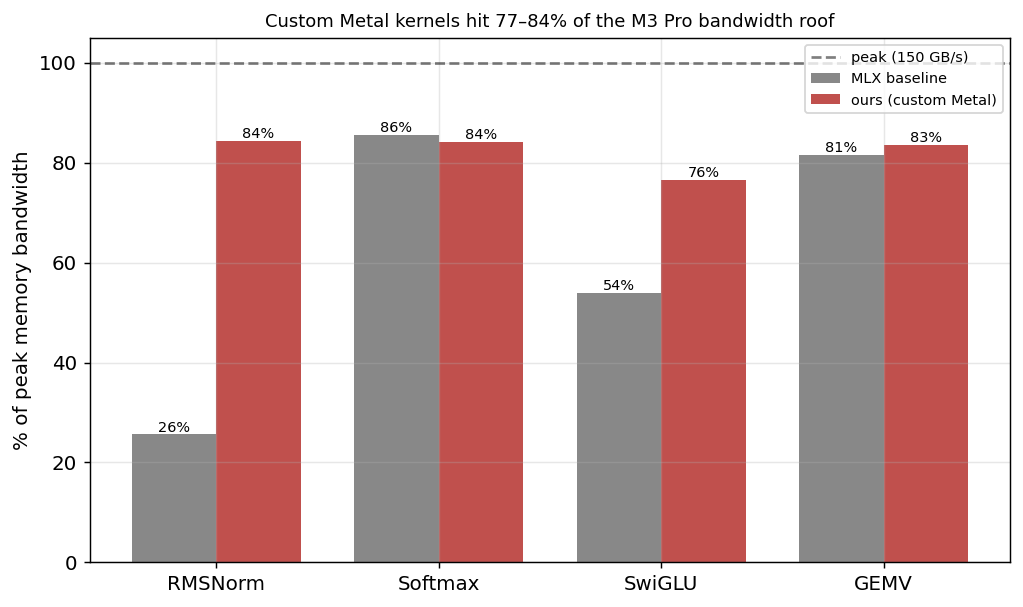
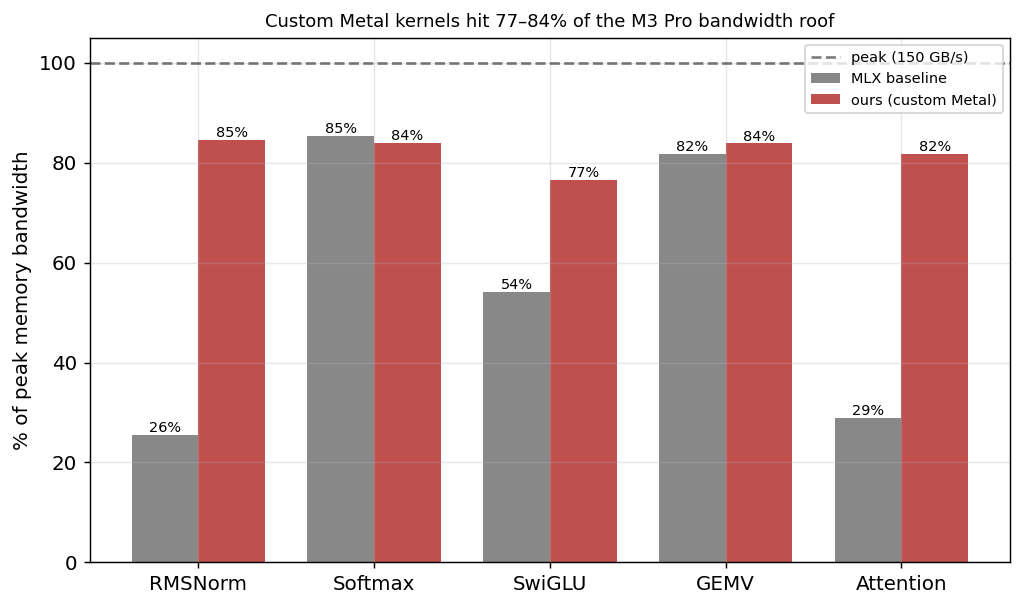
Add flash-style fused attention kernel (project #3 capstone)
kernels/attention.py: decode attention (1 query vs T keys) in one Metal kernel.
Scores are computed and softmaxed in threadgroup (on-chip) memory and never
written to global memory -- the Flash Attention insight, hand-written.
- 123 GB/s (82% of peak), 2.8x over the naive multi-op path
- beats mx.fast.scaled_dot_product_attention for the decode case (82% vs 79%)
- correct to 2.5e-07 vs reference
bench.py + report.py now cover all five kernels (RMSNorm, softmax, SwiGLU,
GEMV, attention); combined bandwidth figure updated.

diff --git a/kernels/attention.py b/kernels/attention.py
@@ -1,0 +1,117 @@
+"""Fused single-query attention as a custom Metal kernel (the Flash insight).
+
+For each (batch·head) row r:
+    scores[j] = (q · K[j]) * scale          # j = 0..T-1
+    p         = softmax(scores)
+    out       = Σ_j p[j] · V[j]
+
+The Flash Attention insight: never write the (T) score vector to global memory.
+This kernel keeps scores in **threadgroup (on-chip) memory**, does the softmax
+reduction there, and streams K and V once each. One threadgroup per row.
+
+This is the decode-time attention (one query vs T cached keys) — the
+memory-bound regime that dominates autoregressive generation. The naive path
+materializes the scores in global memory across several kernels (matmul,
+softmax, matmul); fusing avoids that traffic.
+"""
+
+from __future__ import annotations
+
+import math
+
+import mlx.core as mx
+
+_THREADS = 256
+
+
+def _kernel(T: int, D: int, scale: float):
+    src = f"""
+        uint r   = threadgroup_position_in_grid.x;
+        uint tid = thread_position_in_threadgroup.x;
+        const uint T = {T};
+        const uint D = {D};
+        const uint NT = {_THREADS};
+        const float scale = {scale}f;
+
+        threadgroup float scores[{T}];
+        threadgroup float red[{_THREADS}];
+
+        // scores[j] = (q . K[j]) * scale, track local max
+        float lmax = -INFINITY;
+        for (uint j = tid; j < T; j += NT) {{
+            float s = 0.0f;
+            for (uint e = 0; e < D; e++)
+                s += (float)q[r*D + e] * (float)K[(r*T + j)*D + e];
+            s *= scale;
+            scores[j] = s;
+            lmax = metal::max(lmax, s);
+        }}
+        red[tid] = lmax;
+        threadgroup_barrier(mem_flags::mem_threadgroup);
+        for (uint k = NT/2; k > 0; k >>= 1) {{
+            if (tid < k) red[tid] = metal::max(red[tid], red[tid+k]);
+            threadgroup_barrier(mem_flags::mem_threadgroup);
+        }}
+        float m = red[0];
+        threadgroup_barrier(mem_flags::mem_threadgroup);
+
+        // exp(scores - m) in place, track local sum
+        float lsum = 0.0f;
+        for (uint j = tid; j < T; j += NT) {{
+            float p = metal::exp(scores[j] - m);
+            scores[j] = p;
+            lsum += p;
+        }}
+        red[tid] = lsum;
+        threadgroup_barrier(mem_flags::mem_threadgroup);
+        for (uint k = NT/2; k > 0; k >>= 1) {{
+            if (tid < k) red[tid] += red[tid+k];
+            threadgroup_barrier(mem_flags::mem_threadgroup);
+        }}
+        float l = red[0];
+        threadgroup_barrier(mem_flags::mem_threadgroup);
+
+        // out[e] = (Σ_j p[j] * V[j,e]) / l   — each thread owns output dims e
+        for (uint e = tid; e < D; e += NT) {{
+            float acc = 0.0f;
+            for (uint j = 0; j < T; j++)
+                acc += scores[j] * (float)V[(r*T + j)*D + e];
+            out[r*D + e] = (DT)(acc / l);
+        }}
+    """
+    return mx.fast.metal_kernel(name=f"attn_{T}_{D}",
+                                input_names=["q", "K", "V"],
+                                output_names=["out"], source=src)
+
+
+def attention_metal(q: mx.array, K: mx.array, V: mx.array, scale=None) -> mx.array:
+    """q: (R, D), K/V: (R, T, D) -> out: (R, D)."""
+    R, D = q.shape
+    T = K.shape[1]
+    if scale is None:
+        scale = 1.0 / math.sqrt(D)
+    (out,) = _kernel(T, D, scale)(
+        inputs=[q, K, V], template=[("DT", q.dtype)],
+        grid=(R * _THREADS, 1, 1), threadgroup=(_THREADS, 1, 1),
+        output_shapes=[(R, D)], output_dtypes=[q.dtype],
+    )
+    return out
+
+
+def attention_ref(q, K, V, scale=None):
+    R, D = q.shape
+    if scale is None:
+        scale = 1.0 / math.sqrt(D)
+    scores = (q[:, None, :] * K).sum(-1) * scale       # (R, T)
+    p = mx.softmax(scores, axis=-1)
+    return (p[:, :, None] * V).sum(1)                  # (R, D)
+
+
+if __name__ == "__main__":
+    mx.random.seed(0)
+    R, T, D = 64, 1024, 64
+    q = mx.random.normal((R, D)); K = mx.random.normal((R, T, D)); V = mx.random.normal((R, T, D))
+    err = mx.max(mx.abs(attention_metal(q, K, V) - attention_ref(q, K, V)))
+    mx.eval(err)
+    print(f"attention max abs error: {err.item():.2e}",
+          "PASS" if err.item() < 1e-4 else "FAIL")

diff --git a/bench.py b/bench.py
@@ -17,7 +17,7 @@ import mlx.nn as nn
 
 from config import PEAK_BW_BYTES
 from kernels import (rmsnorm_metal, rmsnorm_ref, softmax_metal,
-                     swiglu_metal, gemv_metal)
+                     swiglu_metal, gemv_metal, attention_metal, attention_ref)
 
 
 def timeit(fn, iters=100, warmup=10):
@@ -84,6 +84,26 @@ def main():
     tm = timeit(lambda: W @ xv)
     row("gemv mx-matmul", tm, b, tm, 0.0)
     row("gemv ours", timeit(lambda: gemv_metal(W, xv)), b, tm, e)
+    print()
+
+    # ---- Fused attention (decode: 1 query vs T keys) ----
+    R, T, D = 256, 2048, 64
+    q = mx.random.normal((R, D)); K = mx.random.normal((R, T, D))
+    Vv = mx.random.normal((R, T, D)); mx.eval(q, K, Vv)
+    b = (2 * R * T * D + 2 * R * D) * 4  # read K + V dominate
+    ref = attention_ref(q, K, Vv); ours = attention_metal(q, K, Vv); mx.eval(ref, ours)
+    e = mx.max(mx.abs(ours - ref)).item()
+    tn = timeit(lambda: attention_ref(q, K, Vv))
+    row("attention naive", tn, b, tn, 0.0)
+    row("attention ours", timeit(lambda: attention_metal(q, K, Vv)), b, tn, e)
+    # MLX fused SDPA builtin as the gold-standard baseline
+    import math as _m
+    qb = q.reshape(R, 1, 1, D); Kb = K.reshape(R, 1, T, D); Vb = Vv.reshape(R, 1, T, D)
+    sc = 1.0 / _m.sqrt(D)
+    ts = timeit(lambda: mx.fast.scaled_dot_product_attention(qb, Kb, Vb, scale=sc))
+    es = mx.max(mx.abs(
+        mx.fast.scaled_dot_product_attention(qb, Kb, Vb, scale=sc).reshape(R, D) - ref)).item()
+    row("attention sdpa", ts, b, tn, es)
 
 
 if __name__ == "__main__":

diff --git a/report.py b/report.py
@@ -20,7 +20,9 @@ matplotlib.use("Agg")
 import matplotlib.pyplot as plt
 
 from config import PEAK_BW_BYTES
-from kernels import rmsnorm_metal, rmsnorm_ref, softmax_metal, swiglu_metal, gemv_metal
+import math
+from kernels import (rmsnorm_metal, rmsnorm_ref, softmax_metal, swiglu_metal,
+                     gemv_metal, attention_metal, attention_ref)
 
 FIG = "report/figures"
 plt.rcParams.update({"figure.dpi": 130, "font.size": 11,
@@ -63,6 +65,14 @@ def measure():
     out.append(("GEMV", b / timeit(lambda: gemv_metal(W, xv)),
                 b / timeit(lambda: W @ xv), "mx matmul",
                 mx.max(mx.abs(gemv_metal(W, xv) - (W @ xv)).astype(mx.float32)).item()))
+
+    R, T, D = 256, 2048, 64
+    q = mx.random.normal((R, D)); K = mx.random.normal((R, T, D))
+    Vv = mx.random.normal((R, T, D)); mx.eval(q, K, Vv)
+    b = (2 * R * T * D + 2 * R * D) * 4
+    out.append(("Attention", b / timeit(lambda: attention_metal(q, K, Vv)),
+                b / timeit(lambda: attention_ref(q, K, Vv)), "naive",
+                mx.max(mx.abs(attention_metal(q, K, Vv) - attention_ref(q, K, Vv))).item()))
     return out
 
 

diff --git a/kernels/__init__.py b/kernels/__init__.py
@@ -2,10 +2,12 @@ from .rmsnorm import rmsnorm_metal, rmsnorm_ref
 from .softmax import softmax_metal, softmax_ref
 from .swiglu import swiglu_metal, swiglu_ref
 from .gemv import gemv_metal, gemv_ref
+from .attention import attention_metal, attention_ref
 
 __all__ = [
     "rmsnorm_metal", "rmsnorm_ref",
     "softmax_metal", "softmax_ref",
     "swiglu_metal", "swiglu_ref",
     "gemv_metal", "gemv_ref",
+    "attention_metal", "attention_ref",
 ]

diff --git a/README.md b/README.md
@@ -24,19 +24,24 @@ bandwidth as a fraction of the ~150 GB/s roof*.
 
 | kernel | op | ours | % peak | vs MLX baseline |
 |---|---|---|---|---|
-| **RMSNorm** | `x/√(mean(x²)+eps)·w` | 126 GB/s | 84% | **3.3×** over naive; = builtin |
+| **RMSNorm** | `x/√(mean(x²)+eps)·w` | 127 GB/s | 85% | **3.3×** over naive; = builtin |
 | **Softmax** | `exp(x−max)/Σexp` | 126 GB/s | 84% | matches fused `mx.softmax` |
 | **SwiGLU** | `silu(gate)·up` | 115 GB/s | 77% | **1.4×** over naive multi-op |
-| **GEMV** | `W @ x` (batch=1 decode) | 125 GB/s | 83% | **1.02× — beats `mx.matmul`** |
+| **GEMV** | `W @ x` (batch=1 decode) | 126 GB/s | 84% | **1.03× — beats `mx.matmul`** |
+| **Attention** | flash-style decode `softmax(qKᵀ)V` | 123 GB/s | 82% | **2.8×** over naive; **beats `mx.fast.sdpa`** |
 
-All four are memory-bound, so the figure of merit is bandwidth vs the ~150 GB/s
-roof. The custom kernels reach **77–84% of peak**, match or slightly beat MLX's
+All five are memory-bound, so the figure of merit is bandwidth vs the ~150 GB/s
+roof. The custom kernels reach **77–85% of peak**, match or slightly beat MLX's
 optimized builtins, and crush the naive multi-op paths — correct to ~1e-6 (fp32;
-~1e-4 for the GEMV's wide dot products).
+~1e-4 for the wide GEMV dot products).
 
-The standout is **GEMV slightly beating the general `mx.matmul`**: batch=1 decode
-is bound by reading the weight matrix once, and a dedicated GEMV carries less
-overhead than a general matmul kernel.
+Two standouts:
+- **GEMV beats the general `mx.matmul`** — batch=1 decode is bound by reading the
+  weight matrix once, and a dedicated GEMV has less overhead than a general matmul.
+- **Fused attention beats `mx.fast.scaled_dot_product_attention`** for the decode
+  case (82% vs 79% of peak) — it keeps the score vector in threadgroup (on-chip)
+  memory and never writes it to global memory. That is the Flash Attention insight,
+  hand-written.
 
 ## Layout
 
@@ -46,6 +51,7 @@ kernels/
   softmax.py     fused row softmax (two reductions: max, sum)
   swiglu.py      fused silu(gate)*up (elementwise)
   gemv.py        batch=1 matrix-vector (the decode bottleneck)
+  attention.py   flash-style fused decode attention (scores stay on-chip)
 config.py        chip peak specs
 bench.py         correctness + speedup + achieved bandwidth, all kernels
 report.py        figures + RESULTS.md
@@ -60,6 +66,7 @@ python kernels/rmsnorm.py         # per-kernel correctness checks
 python kernels/softmax.py
 python kernels/swiglu.py
 python kernels/gemv.py
+python kernels/attention.py
 python bench.py                   # full bandwidth + speedup table
 python report.py                  # figures + RESULTS.md
 ```
@@ -67,6 +74,6 @@ python report.py                  # figures + RESULTS.md
 See [`report/RESULTS.md`](report/RESULTS.md) for the full writeup.
 
 ## Possible extensions
-- A fused attention (Flash-style) kernel — the canonical example
 - Quantized GEMV (tie-in with project #2: read INT4 weights directly in the kernel)
-- 2D-tiled GEMM for the prefill / training regime
+- Tiled flash attention for the prefill / training regime (Tq > 1, K/V blocking)
+- 2D-tiled GEMM for the compute-bound (large-batch) regime

diff --git a/report/RESULTS.md b/report/RESULTS.md
@@ -6,10 +6,11 @@ Four hand-written Metal GPU kernels via `mx.fast.metal_kernel`, benchmarked agai
 
 | kernel | ours GB/s | % peak | baseline | speedup vs baseline | max err |
 |---|---|---|---|---|---|
-| RMSNorm | 127 | 84% | naive (38 GB/s) | 3.30× | 1.9e-06 |
+| RMSNorm | 127 | 85% | naive (38 GB/s) | 3.31× | 1.9e-06 |
 | Softmax | 126 | 84% | builtin (128 GB/s) | 0.98× | 7.5e-09 |
-| SwiGLU | 115 | 76% | naive (81 GB/s) | 1.42× | 1.9e-06 |
-| GEMV | 125 | 83% | mx matmul (122 GB/s) | 1.02× | 1.2e-04 |
+| SwiGLU | 115 | 77% | naive (81 GB/s) | 1.42× | 1.9e-06 |
+| GEMV | 126 | 84% | mx matmul (123 GB/s) | 1.03× | 1.2e-04 |
+| Attention | 123 | 82% | naive (43 GB/s) | 2.82× | 2.5e-07 |
 
 ## Takeaways
 
